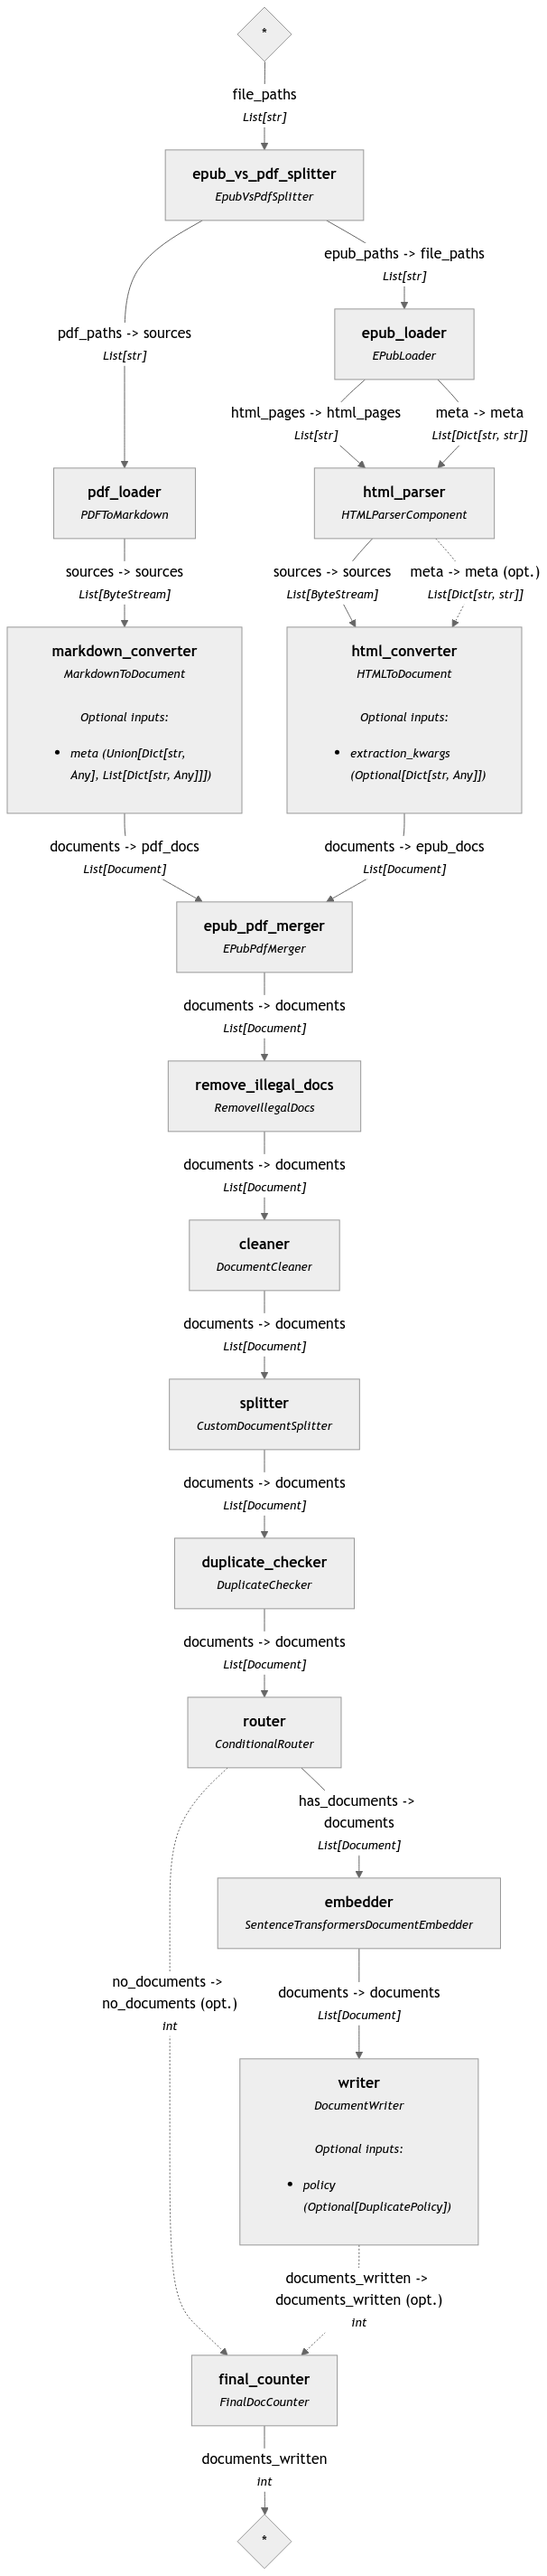
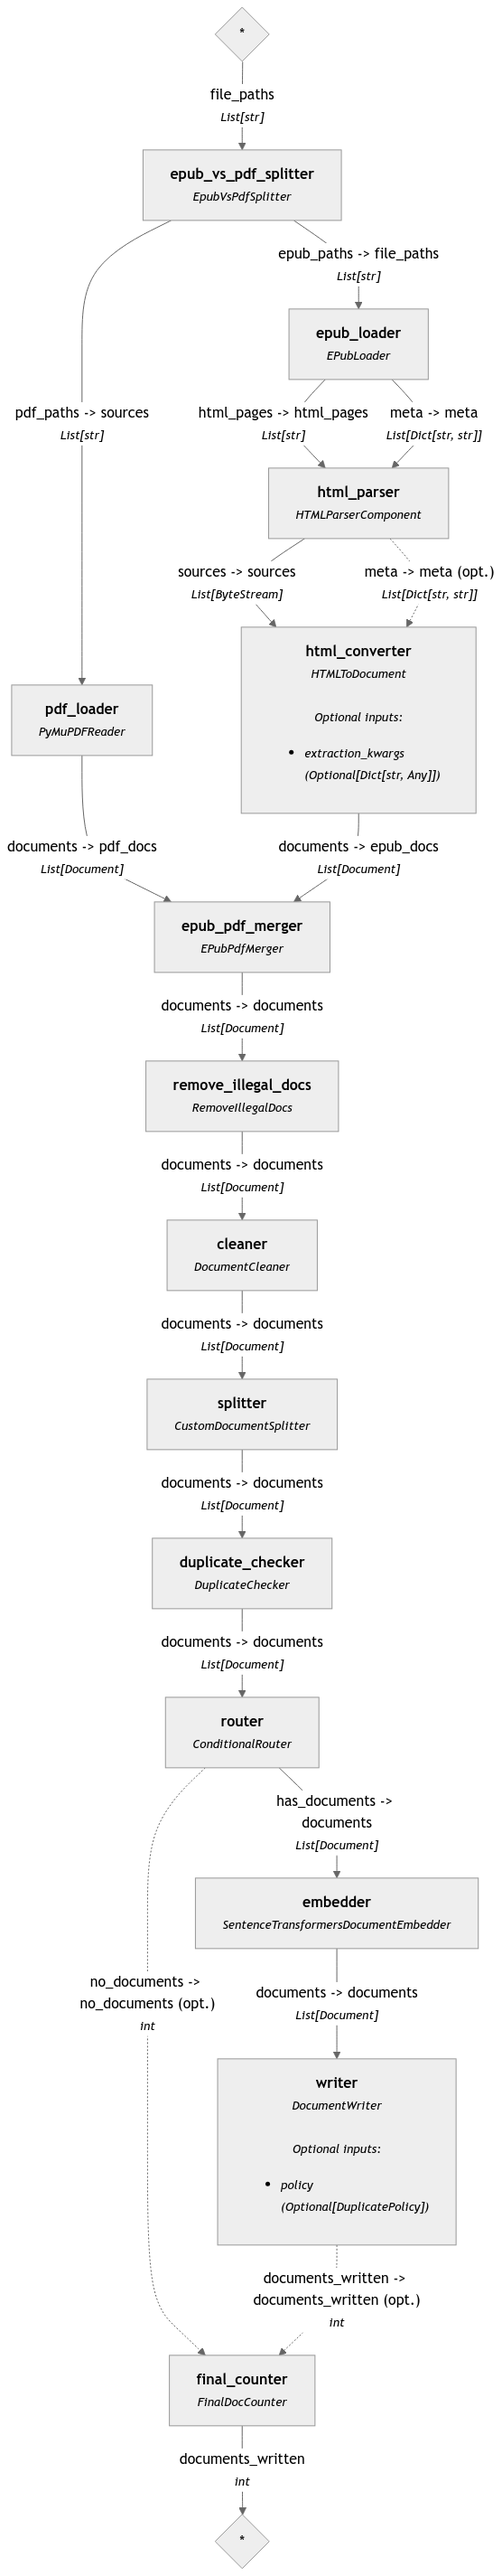
Fixed PyMu option to work

diff --git a/document_processor.py b/document_processor.py
@@ -169,7 +169,7 @@ class DocumentProcessor:
             else:
                 raise ValueError("The provided file must be an .epub or .pdf")
 
-    def _doc_converter_pipeline(self, pdf_reading_strategy: PDFReadingStrategy = PDFToMarkdown) -> None:
+    def _doc_converter_pipeline(self, pdf_reading_strategy: PDFReadingStrategy = PyMuPDFReader) -> None:
         self._setup_embedder()
         # Create the custom splitter
         custom_splitter: CustomDocumentSplitter = CustomDocumentSplitter(self._sentence_embedder,
@@ -205,7 +205,7 @@ class DocumentProcessor:
             doc_convert_pipe.add_component("pdf_loader", PDFToMarkdown())
             doc_convert_pipe.add_component("markdown_converter", MarkdownToDocument())
         elif pdf_reading_strategy == PyMuPDFReader:
-            doc_convert_pipe.add_component("py_mu_pdf_reader", PyMuPDFReader())
+            doc_convert_pipe.add_component("pdf_loader", PyMuPDFReader())
 
         doc_convert_pipe.add_component("epub_loader", EPubLoader(verbose=self._verbose))
         doc_convert_pipe.add_component("html_parser",
@@ -331,7 +331,7 @@ def main() -> None:
         min_paragraph_size=300,
         include_outputs_from=include_outputs_from,
         verbose=True,
-        write_to_file=False
+        write_to_file=True
     )
 
     # Draw images of the pipelines

diff --git a/rag_pipeline.py b/rag_pipeline.py
@@ -371,7 +371,7 @@ def main() -> None:
                                              llm_top_k=5,
                                              retriever_top_k_docs=None,
                                              include_outputs_from=include_outputs_from,
-                                             search_mode=SearchMode.LEXICAL,
+                                             search_mode=SearchMode.HYBRID,
                                              embedder_model_name="BAAI/llm-embedder")
 
     if rag_processor.verbose:
@@ -382,7 +382,7 @@ def main() -> None:
         print("Sentence Embedder Dims: " + str(rag_processor.sentence_embed_dims))
         print("Sentence Embedder Context Length: " + str(rag_processor.sentence_context_length))
 
-    query: str = "I came to Prague with the corrected page proofs of my book"
+    query: str = "Induction"
     # "Should we strive to make our theories as severely testable as possible?"
     # "Should you ad hoc save your theory?"
     # "How are refutation, falsification, and testability related?"

diff --git a/custom_haystack_components.py b/custom_haystack_components.py
@@ -67,13 +67,14 @@ class PyMuPDFReader:
     def __init__(self, min_page_size: int = 1000):
         self._min_page_size = min_page_size
 
-    @component.output_types(sources=List[Document])
+    @component.output_types(documents=List[Document])
     def run(self, sources: List[str]) -> Dict[str, List[Document]]:
         documents: List[Document] = []
         for source in sources:
             doc = pymupdf.open(source)
             for page_num in range(len(doc)):
-                page_text = doc.load_page(page_num)
+                page = doc.load_page(page_num)
+                page_text = page.get_text("text")
                 if len(page_text) < self._min_page_size:
                     continue
                 documents.append(Document(content=page_text))
